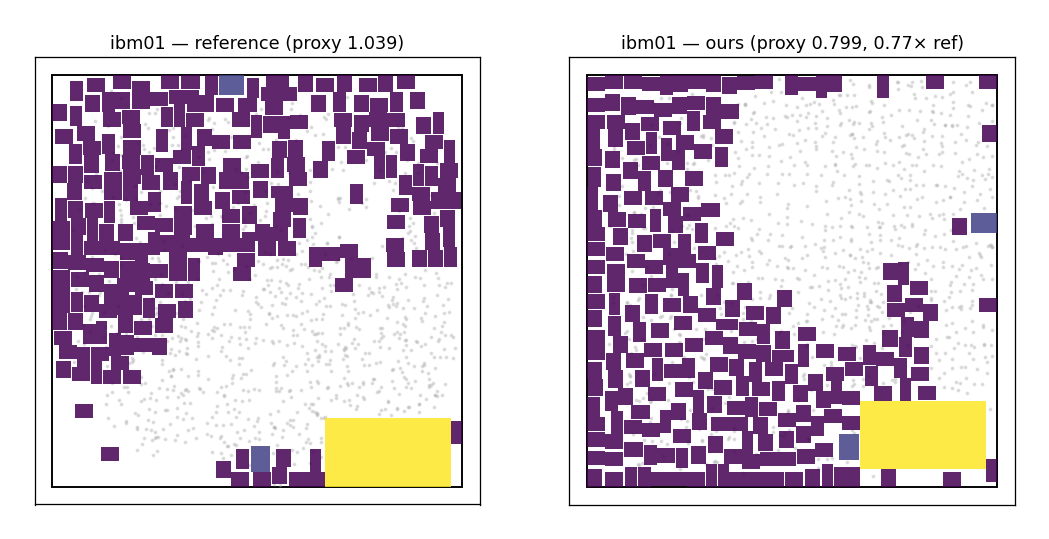
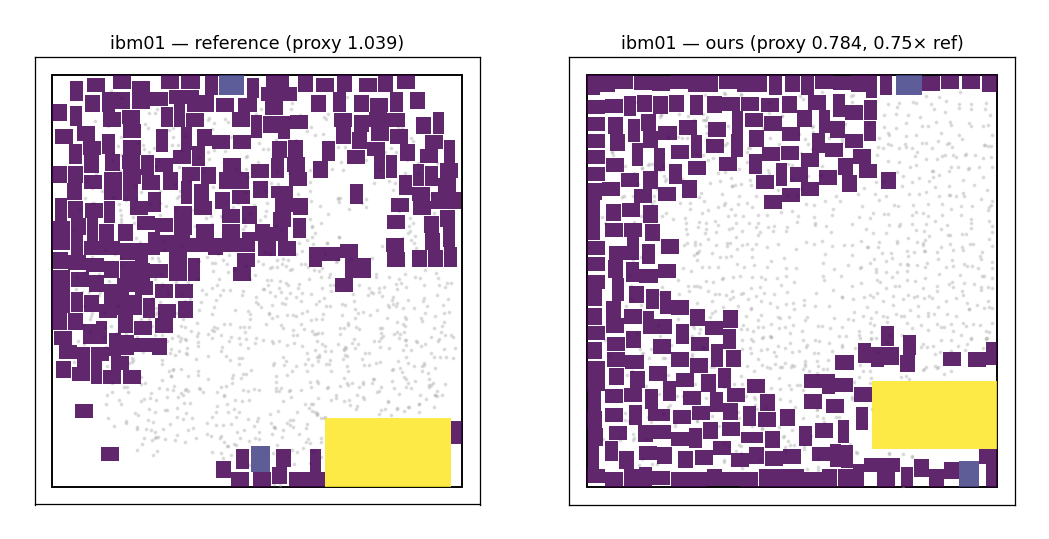
Regenerate result plots from the 1.0155 run: per-benchmark chart (new plot_perbench.py) + ibm01/09/18 layouts from the actual winning polished placements (were stale from the 1.038 run)

Changed region(s): [[0.5491, 0.1187, 0.9762, 0.9202], [0.8541, 0.0594, 0.9152, 0.0891], [0.7931, 0.0594, 0.8236, 0.0891]]

diff --git a/scripts/plot_perbench.py b/scripts/plot_perbench.py
@@ -1,0 +1,33 @@
+"""Per-benchmark bar chart for the write-up: our final proxy vs the reference,
+read straight from notes/fullrun_report.json (the 1.0155 result) and the reference
+abs from notes/validate_all.json. Saves notes/fig_perbench.png.
+"""
+import os, sys, json
+sys.path.insert(0, "/home/laz/partcl/my-macro-placer")
+import numpy as np
+import matplotlib
+matplotlib.use("Agg")
+import matplotlib.pyplot as plt
+
+ROOT = "/home/laz/partcl/my-macro-placer"
+rep = json.load(open(f"{ROOT}/notes/fullrun_report.json"))
+ref = {r["benchmark"]: r["reference"] for r in json.load(open(f"{ROOT}/notes/validate_all.json"))["rows"]}
+order = [f"ibm{n:02d}" for n in [1, 2, 3, 4, 6, 7, 8, 9, 10, 11, 12, 13, 14, 15, 16, 17, 18]]
+pb = {r["benchmark"]: min(r["best_after"], r["greedy_ref"]) for r in rep["rows"]}
+
+ours = [pb[nm] for nm in order]
+refs = [ref[nm] for nm in order]
+avg_ours = float(np.mean(ours)); avg_ref = float(np.mean(refs)); lb1 = 0.9507
+x = np.arange(len(order)); w = 0.4
+
+fig, ax = plt.subplots(figsize=(11, 4.2))
+ax.bar(x - w / 2, refs, w, label=f"reference (avg {avg_ref:.3f})", color="#cbd5e1")
+ax.bar(x + w / 2, ours, w, label=f"ours (avg {avg_ours:.4f})", color="#16a34a")
+ax.axhline(lb1, ls="--", lw=1, color="#b91c1c", label=f"leaderboard #1 avg ({lb1})")
+ax.set_xticks(x); ax.set_xticklabels([nm.replace("ibm", "") for nm in order])
+ax.set_xlabel("IBM benchmark"); ax.set_ylabel("proxy cost (lower is better)")
+ax.set_title(f"Final proxy per benchmark — avg {avg_ours:.4f} (−{100*(1-avg_ours/avg_ref):.0f}% vs reference, zero overlaps)")
+ax.legend(loc="upper left", fontsize=9, framealpha=0.9)
+ax.margins(x=0.01); fig.tight_layout()
+fig.savefig(f"{ROOT}/notes/fig_perbench.png", dpi=115, bbox_inches="tight")
+print(f"saved fig_perbench.png  avg_ours={avg_ours:.4f} avg_ref={avg_ref:.3f}")
